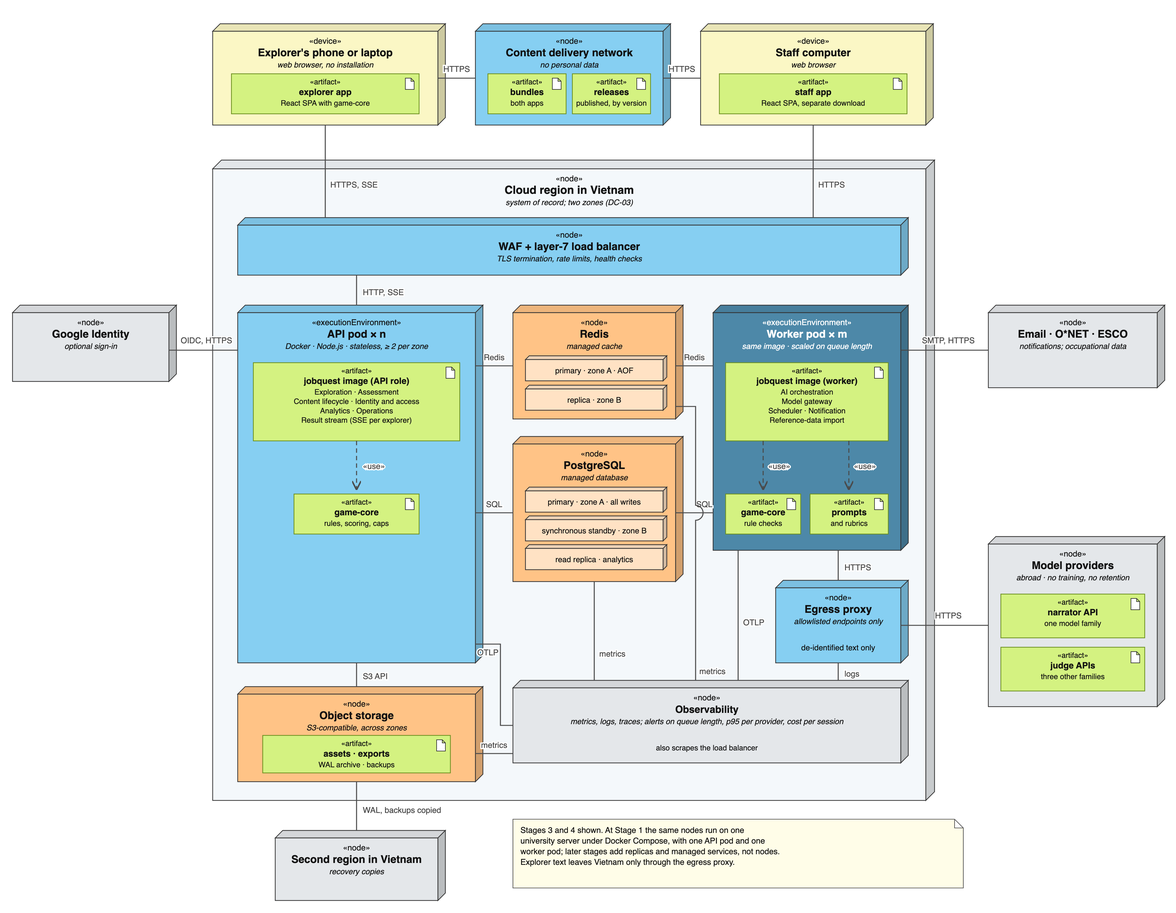
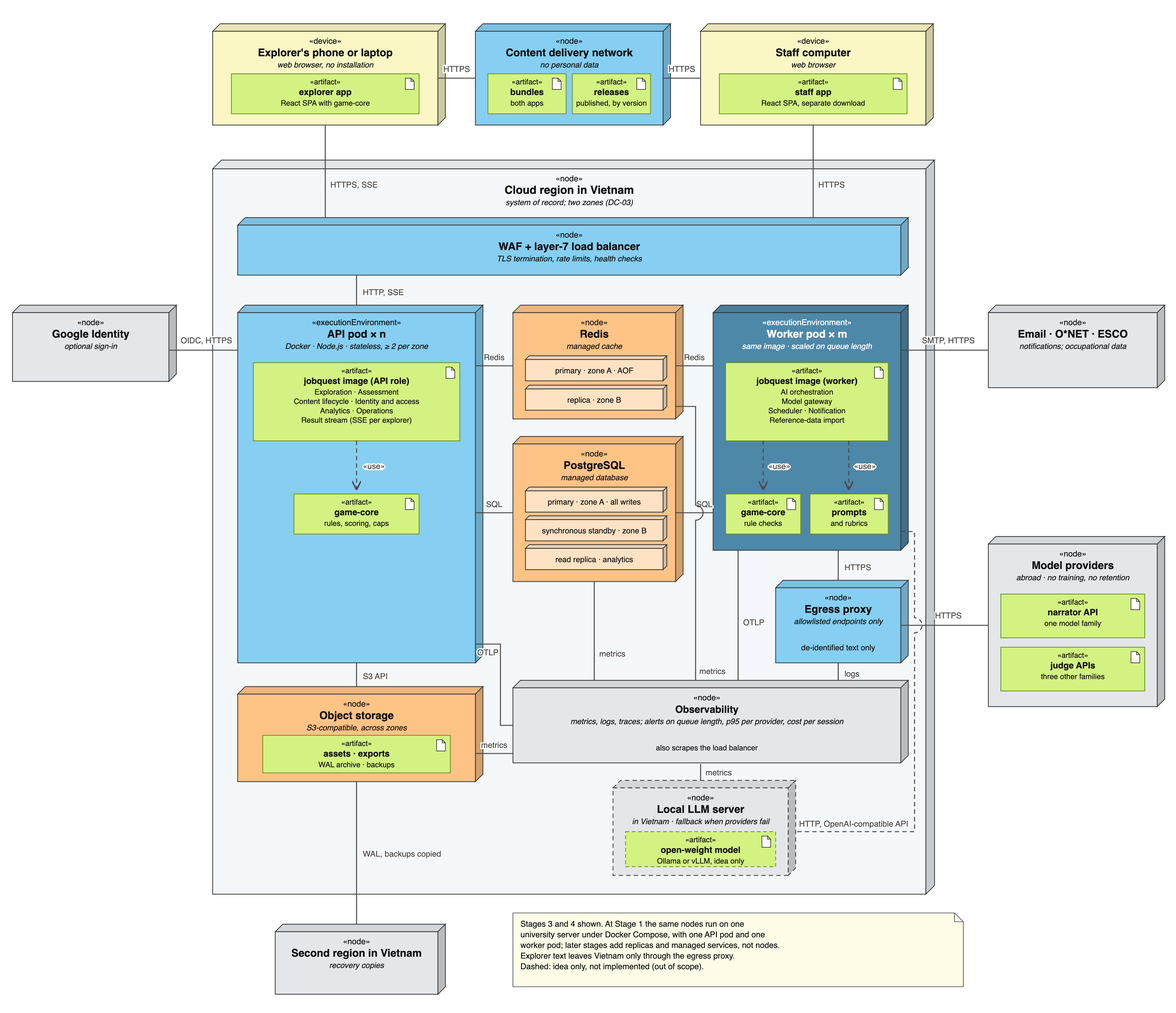
docs(report): vẽ LLM local (ý tưởng, không hiện thực) vào component và deployment diagram
- Theo nhận xét của cô 24/10: LLM local là chế độ fallback khi nhà cung cấp AI gặp sự cố, giữ dữ liệu trong Việt Nam (D-98)
- Hình đặt viền đứt nét, kèm chú giải "idea only, not implemented"; §5.3.1 ghi rõ ngoài phạm vi dự án
- Deployment: thêm node Local LLM server trong vùng cloud Việt Nam, nối từ worker và nối sang observability; sửa nguồn build_deployment.py
- Component: không có file nguồn nên vẽ chồng lên PNG gốc (assets/component)
- Đưa §5.3.6 xuống sau §5.3.3 để md2tex đánh số mục đúng thứ tự

diff --git a/docs/project-hub/assets/component/overlay.html b/docs/project-hub/assets/component/overlay.html
@@ -1,0 +1,19 @@
+<!doctype html><meta charset="utf-8">
+<style>html,body{margin:0;background:#fff}svg{display:block}text{font-family:Inter,-apple-system,"SF Pro Text","Helvetica Neue",Arial,sans-serif}</style>
+<svg xmlns="http://www.w3.org/2000/svg" width="2500" height="2352" viewBox="0 0 2500 2352">
+<image href="base.png" width="2500" height="2352"/>
+<!-- Local LLM: ý tưởng, không hiện thực -->
+<rect x="2020" y="1920" width="418" height="128" rx="8" fill="#FFFAF4" stroke="#C2410C" stroke-width="4" stroke-dasharray="14 9"/>
+<text x="2044" y="1952" font-size="25" font-style="italic" fill="#5B6678">«component»</text>
+<text x="2044" y="1987" font-size="33" font-weight="700" fill="#0F172A">Local LLM</text>
+<text x="2044" y="2014" font-size="25" fill="#334155">OpenAI-compatible API · fallback</text>
+<text x="2044" y="2040" font-size="25" fill="#334155" font-weight="600">idea only, not implemented</text>
+<!-- ghép nối từ Model gateway -->
+<path d="M1560,1898 V1984 H1930" fill="none" stroke="#C2410C" stroke-width="5" stroke-dasharray="14 9"/>
+<path d="M1930,1957 A27,27 0 0 0 1930,2011" fill="none" stroke="#C2410C" stroke-width="5"/>
+<circle cx="1941" cy="1984" r="14" fill="#fff" stroke="#C2410C" stroke-width="5"/>
+<path d="M1955,1984 H2020" stroke="#C2410C" stroke-width="5"/>
+<!-- chú giải -->
+<rect x="1950" y="2280" width="50" height="28" rx="4" fill="#FFFAF4" stroke="#C2410C" stroke-width="3.5" stroke-dasharray="9 6"/>
+<text x="2014" y="2302" font-size="26" fill="#334155">idea only, not built</text>
+</svg>

diff --git a/reports/master/chapters/ch5.tex b/reports/master/chapters/ch5.tex
@@ -1856,12 +1856,12 @@ Serverless functions on the request path & NFR-01 & Cold starts add latency to t
 
 Actors and external environment. Four actors use the system, each through a browser (Section 4.2.1). Explorers --- students and career changers --- play scenarios on phones or laptops. Domain experts author, review, and revalidate the content of an occupation and rate responses blind. Content administrators manage an occupation in the catalogue, assign reviews, design presentation, and publish. System administrators manage accounts, model configuration, cost, failed jobs, and app feedback. Four external services sit outside the system boundary: model providers abroad --- a narrator of one family, judges of three other families, and an image model; Google, as an optional identity provider; an email delivery service; and the occupational data sources O*NET and ESCO, imported periodically.
 
-Component view. The figure below shows the components and the interfaces between them in UML notation: a ball is an interface a component provides, a socket one it requires. The API and Worker subsystems are the same codebase running different processes; they never call each other directly but communicate through the job queue and publish--subscribe channel in Redis.
+Component view. The figure below shows the components and the interfaces between them in UML notation: a ball is an interface a component provides, a socket one it requires. The API and Worker subsystems are the same codebase running different processes; they never call each other directly but communicate through the job queue and publish--subscribe channel in Redis. The dashed component, a local language model server behind the same adapter interface as the providers, is an idea only: it would serve as a fallback inside Vietnam when every provider fails (Section 5.3.6), it is not implemented, and building it is outside the scope of the project.
 
 \begin{figure}[H]
 \centering
 \includegraphics[width=\textwidth,height=0.9\textheight,keepaspectratio]{figures/jobquest_component_diagram.png}
-\caption{Component diagram of JobQuest. Each line joins the component that requires an interface (socket) to the component that provides it (ball)}
+\caption{Component diagram of JobQuest. Each line joins the component that requires an interface (socket) to the component that provides it (ball). Dashed: an idea that is not implemented}
 \end{figure}
 
 Each module is described below with its responsibility and its state in the prototype.
@@ -1900,13 +1900,13 @@ System overview. The figure below shows the whole system as deployed: the two br
 \caption{System overview of JobQuest: components, technologies, and hosting, with the numbered path of one written answer. Blue arrows are the request path; orange arrows the background AI path; the dashed border is the hosting boundary of DC-03}
 \end{figure}
 
-Deployment. The deployment diagram below follows UML notation: devices and nodes are drawn as three-dimensional boxes, the artifacts deployed on them as documents inside, and each communication path is labelled with its protocol; the components of Section 5.3.1 appear inside the artifact that manifests them. Both applications are static bundles, served to browsers by a content delivery network that holds no personal data. Inside one cloud region in Vietnam, a web application firewall and load balancer terminate TLS and spread requests over the API pods of two zones. API and worker pods run the same Docker image, started in two roles; both are stateless, so capacity grows by adding pods: API pods on CPU and open streams, worker pods on queue length. PostgreSQL runs as a primary with a synchronous standby in the other zone and a read replica for analytics; Redis runs as a primary with a replica. The model gateway reaches the providers abroad only through an egress proxy that admits allowlisted endpoints, and backups are copied to a second region in Vietnam. An observability node inside the region receives metrics, logs, and traces from the API and worker pods over OpenTelemetry (OTLP), collects metrics from Redis, PostgreSQL, and object storage and logs from the egress proxy, and scrapes the load balancer, so that queue length, latency per provider, and cost per session are watched in one place. At Stage 1 the same nodes run on one university server under Docker Compose, with one API and one worker.
+Deployment. The deployment diagram below follows UML notation: devices and nodes are drawn as three-dimensional boxes, the artifacts deployed on them as documents inside, and each communication path is labelled with its protocol; the components of Section 5.3.1 appear inside the artifact that manifests them. Both applications are static bundles, served to browsers by a content delivery network that holds no personal data. Inside one cloud region in Vietnam, a web application firewall and load balancer terminate TLS and spread requests over the API pods of two zones. API and worker pods run the same Docker image, started in two roles; both are stateless, so capacity grows by adding pods: API pods on CPU and open streams, worker pods on queue length. PostgreSQL runs as a primary with a synchronous standby in the other zone and a read replica for analytics; Redis runs as a primary with a replica. The model gateway reaches the providers abroad only through an egress proxy that admits allowlisted endpoints, and backups are copied to a second region in Vietnam. An observability node inside the region receives metrics, logs, and traces from the API and worker pods over OpenTelemetry (OTLP), collects metrics from Redis, PostgreSQL, and object storage and logs from the egress proxy, and scrapes the load balancer, so that queue length, latency per provider, and cost per session are watched in one place. At Stage 1 the same nodes run on one university server under Docker Compose, with one API and one worker. The dashed node, a local language model server inside the region, is an idea only: the worker would call it over an OpenAI-compatible API when every provider fails, so that explorer text stays in Vietnam; it is not implemented and is outside the scope of the project.
 
 \begin{landscape}
 \begin{figure}[H]
 \centering
-\includegraphics[width=\linewidth,keepaspectratio]{figures/jobquest_deployment.png}
-\caption{UML deployment diagram of JobQuest at Stages 3 and 4: devices, nodes, and execution environments, the artifacts deployed on each, and the protocol of each communication path}
+\includegraphics[width=\linewidth,height=0.86\textwidth,keepaspectratio,keepaspectratio]{figures/jobquest_deployment.png}
+\caption{UML deployment diagram of JobQuest at Stages 3 and 4: devices, nodes, and execution environments, the artifacts deployed on each, and the protocol of each communication path. Dashed: an idea that is not implemented}
 \end{figure}
 \end{landscape}
 
@@ -2050,29 +2050,6 @@ Reliability and operations. Availability of 99.5\% a month is proposed for Stage
 
 From the prototype to the target. Four prototype mechanisms are kept: rules in a framework-free \textit{game-core} shared by client and server; the server as score authority; content in versioned, immutable releases pinned to each run; and httpOnly cookie sessions with rotating refresh tokens. Six changes reach the target: free-text assessment becomes an asynchronous job whose result enters the run as an event; runs are submitted turn by turn (NFR-03); content is written through the lifecycle module instead of a seed script; three roles become four occupation-scoped actors; the staff application, AI orchestration, gateway, queue, workers, and scheduler are added; and the accessible 2D map is added. Each change extends a prototype component along a boundary it already has; none discards one.
 
-\setcounter{subsubsection}{5}
-
-\subsubsection{AI Model Design}
-
-JobQuest does not design, train, or fine-tune a model (Section 5.2.3). This section designs how existing language models are composed with rules, data, and expert oversight into the AI components of the platform. Only its structure is fixed here: each part is written once its content has been verified, and the parts that depend on the game design stay parameterised until the game design is fixed. The parts fall into four groups: the overview (parts 1 and 2), the components and their data (parts 3 to 6), scoring and model calls (parts 7 to 10), and operation (parts 11 to 15).
-
-\begin{enumerate}[leftmargin=1.5em]
-  \item Design principles: the principles that decide which decisions a model takes and which a rule takes.
-  \item End-to-end flow: one figure of the authoring, play, and review loops, and of the model gateway that every call passes through.
-  \item The AI components: the contract of each of AI-1 to AI-5, namely when it runs, what it receives and returns, how its output is checked, and what happens on failure.
-  \item Feedback writer: how the result of a judgment becomes feedback the explorer can use.
-  \item Other free text: how every other free-text answer in the game reaches the same grader.
-  \item Data contracts: the seed that experts author and the judgment that the graders return, with what is stored and versioned.
-  \item Scoring and aggregation: how the levels given by the judges are combined into a grade and a competency score, with the parameters left open until the game design is fixed.
-  \item Edge cases: invalid output, an empty answer, hints, and a missing judge.
-  \item Model call configuration and prompts: the parameters of each kind of call, their translation to the API of each provider, the system prompt, and prompt caching.
-  \item Run-time rules of AI-4: the checks applied to the narrator's text before the explorer sees it.
-  \item Privacy and safety: de-identification and the defence against prompt injection; the policy on third parties is in Section 5.3.10.
-  \item Failure behaviour: the sequence of fallbacks when a call fails, and the idea of a local model as the last fallback, which is not implemented and is to be shown in the component and deployment diagrams.
-  \item Cost and time: the cost of a playthrough and the time budget of each call.
-  \item Feedback loop and versions: how expert rulings improve the rubrics and the calibration examples, and how versions of models, prompts, and rubrics are tracked.
-  \item Deferred AI functions: the AI functions left for a later phase and where they attach to the design.
-\end{enumerate}
 \subsubsection{Sitemap Design}
 
 The two applications of Section 5.3.1 have one sitemap each. A box is a screen and lists its main elements; a solid arrow is navigation the user chooses, and a dashed arrow, labelled with its condition, is a screen the system leads to after an action.
@@ -2090,7 +2067,7 @@ Staff application. One sign-in screen leads to three portals, one per staff acto
 \begin{landscape}
 \begin{figure}[H]
 \centering
-\includegraphics[width=\linewidth,keepaspectratio]{figures/SITE-02_StaffApp.png}
+\includegraphics[width=\linewidth,height=0.86\textwidth,keepaspectratio,keepaspectratio]{figures/SITE-02_StaffApp.png}
 \caption{Sitemap of the staff application (SITE-02): three portals behind one sign-in, with dashed arrows for the path a scenario takes between them}
 \end{figure}
 \end{landscape}
@@ -2162,6 +2139,30 @@ Import reference data. The uploaded O*NET and ESCO files are stored in object st
 \includegraphics[width=\textwidth,height=0.9\textheight,keepaspectratio]{figures/SD-09_ContentAdmin_ImportReferenceData.png}
 \caption{Sequence of importing reference data (SD-09): upload, matching against O*NET and ESCO, resolution of unmatched records, and adaptation}
 \end{figure}
+
+\setcounter{subsubsection}{5}
+
+\subsubsection{AI Model Design}
+
+JobQuest does not design, train, or fine-tune a model (Section 5.2.3). This section designs how existing language models are composed with rules, data, and expert oversight into the AI components of the platform. Only its structure is fixed here: each part is written once its content has been verified, and the parts that depend on the game design stay parameterised until the game design is fixed. The parts fall into four groups: the overview (parts 1 and 2), the components and their data (parts 3 to 6), scoring and model calls (parts 7 to 10), and operation (parts 11 to 15).
+
+\begin{enumerate}[leftmargin=1.5em]
+  \item Design principles: the principles that decide which decisions a model takes and which a rule takes.
+  \item End-to-end flow: one figure of the authoring, play, and review loops, and of the model gateway that every call passes through.
+  \item The AI components: the contract of each of AI-1 to AI-5, namely when it runs, what it receives and returns, how its output is checked, and what happens on failure.
+  \item Feedback writer: how the result of a judgment becomes feedback the explorer can use.
+  \item Other free text: how every other free-text answer in the game reaches the same grader.
+  \item Data contracts: the seed that experts author and the judgment that the graders return, with what is stored and versioned.
+  \item Scoring and aggregation: how the levels given by the judges are combined into a grade and a competency score, with the parameters left open until the game design is fixed.
+  \item Edge cases: invalid output, an empty answer, hints, and a missing judge.
+  \item Model call configuration and prompts: the parameters of each kind of call, their translation to the API of each provider, the system prompt, and prompt caching.
+  \item Run-time rules of AI-4: the checks applied to the narrator's text before the explorer sees it.
+  \item Privacy and safety: de-identification and the defence against prompt injection; the policy on third parties is in Section 5.3.10.
+  \item Failure behaviour: the sequence of fallbacks when a call fails, and the idea of a local model as the last fallback, which is not implemented and is to be shown in the component and deployment diagrams.
+  \item Cost and time: the cost of a playthrough and the time budget of each call.
+  \item Feedback loop and versions: how expert rulings improve the rubrics and the calibration examples, and how versions of models, prompts, and rubrics are tracked.
+  \item Deferred AI functions: the AI functions left for a later phase and where they attach to the design.
+\end{enumerate}
 
 \setcounter{subsubsection}{9}
 

diff --git a/docs/project-hub/assets/deployment/build_deployment.py b/docs/project-hub/assets/deployment/build_deployment.py
@@ -9,7 +9,7 @@ chữ nhật xanh lá có biểu tượng tài liệu, đường nối ghi giao 
 from pathlib import Path
 from xml.sax.saxutils import escape
 
-W, H = 1880, 1460
+W, H = 1880, 1620
 D = 12  # độ sâu mặt 3D
 
 C = {
@@ -42,13 +42,14 @@ def text(x, y, s, size=14, weight="normal", anchor="start", color=None, italic=F
     )
 
 
-def node(x, y, w, h, fill, stereo, name, sub=None, light_text=False, depth=D, name_size=17):
+def node(x, y, w, h, fill, stereo, name, sub=None, light_text=False, depth=D, name_size=17, dashed=False):
     """Hộp 3D kiểu UML: mặt trước, mặt trên, mặt phải."""
+    dash = ' stroke-dasharray="7 5"' if dashed else ""
     top = f"{x},{y} {x + depth},{y - depth} {x + w + depth},{y - depth} {x + w},{y}"
     right = f"{x + w},{y} {x + w + depth},{y - depth} {x + w + depth},{y + h - depth} {x + w},{y + h}"
-    out.append(f'<polygon points="{top}" fill="{shade(fill, 0.93)}" stroke="#333" stroke-width="1.2"/>')
-    out.append(f'<polygon points="{right}" fill="{shade(fill, 0.82)}" stroke="#333" stroke-width="1.2"/>')
-    out.append(f'<rect x="{x}" y="{y}" width="{w}" height="{h}" fill="{fill}" stroke="#333" stroke-width="1.2"/>')
+    out.append(f'<polygon points="{top}" fill="{shade(fill, 0.93)}" stroke="#333" stroke-width="1.2"{dash}/>')
+    out.append(f'<polygon points="{right}" fill="{shade(fill, 0.82)}" stroke="#333" stroke-width="1.2"{dash}/>')
+    out.append(f'<rect x="{x}" y="{y}" width="{w}" height="{h}" fill="{fill}" stroke="#333" stroke-width="1.2"{dash}/>')
     if not name:  # node lồng nhỏ: chữ do nơi gọi tự viết
         return
     col = "#ffffff" if light_text else C["text"]
@@ -59,10 +60,10 @@ def node(x, y, w, h, fill, stereo, name, sub=None, light_text=False, depth=D, na
         text(cx, y + 58, sub, 12.5, anchor="middle", color=col, italic=True)
 
 
-def artifact(x, y, w, h, name, sub=None):
+def artifact(x, y, w, h, name, sub=None, dashed=False):
     out.append(
         f'<rect x="{x}" y="{y}" width="{w}" height="{h}" fill="{C["artifact"]}" '
-        f'stroke="{C["artifact_line"]}" stroke-width="1.2"/>'
+        f'stroke="{C["artifact_line"]}" stroke-width="1.2"{' stroke-dasharray="6 4"' if dashed else ""}/>'
     )
     # biểu tượng tài liệu góc gấp
     ix, iy = x + w - 22, y + 7
@@ -116,7 +117,7 @@ line([(700, 125), (760, 125)], "HTTPS", (730, 115))
 line([(1120, 125), (1060, 125)], "HTTPS", (1090, 115))
 
 # ── Vùng cloud tại Việt Nam (node lồng các node) ─────────────────────
-node(340, 270, 1140, 1010, C["region"], "node", "Cloud region in Vietnam", "system of record; two zones (DC-03)", depth=14, name_size=18)
+node(340, 270, 1140, 1160, C["region"], "node", "Cloud region in Vietnam", "system of record; two zones (DC-03)", depth=14, name_size=18)
 
 node(380, 360, 1060, 80, C["blue"], "node", "WAF + layer-7 load balancer", "TLS termination, rate limits, health checks")
 line([(520, 200), (520, 348)], "HTTPS, SSE", (528, 300), anchor="start")
@@ -181,6 +182,14 @@ line([(1340, 1060), (1340, 1088)], "logs", (1350, 1082), anchor="start")
 line([(760, 1030), (800, 1030), (800, 1160), (820, 1160)], "OTLP", (780, 1048))
 line([(760, 1205), (820, 1205)], "metrics", (790, 1196))
 
+# ── Ý tưởng: LLM local làm fallback khi nhà cung cấp lỗi (D-98; không hiện thực, ngoài phạm vi) ──
+node(980, 1260, 280, 140, C["ext"], "node", "Local LLM server", "in Vietnam · fallback when providers fail", dashed=True)
+artifact(1000, 1330, 240, 56, "open-weight model", "Ollama or vLLM, idea only", dashed=True)
+# worker → LLM local: đi dọc mép phải vùng, nhảy qua đường egress → nhà cung cấp
+out.append('<path d="M1440,850 H1462 V988 A12,12 0 0 1 1462,1012 V1330 H1272" fill="none" stroke="#4a4a4a" stroke-width="1.6" stroke-dasharray="7 5"/>')
+out.append('<text x="1452" y="1322" font-size="13" text-anchor="end" fill="#4a4a4a" paint-order="stroke" stroke="#ffffff" stroke-width="4">HTTP, OpenAI-compatible API</text>')
+line([(1120, 1248), (1120, 1222)], "metrics", (1128, 1240), anchor="start")
+
 # ── Cột trái: Google ──────────────────────────────────────────────────
 node(20, 500, 250, 110, C["ext"], "node", "Google Identity", "optional sign-in")
 line([(380, 560), (270, 560)], "OIDC, HTTPS", (330, 549))
@@ -195,14 +204,15 @@ node(1580, 500, 270, 120, C["ext"], "node", "Email · O*NET · ESCO", "notificat
 line([(1440, 560), (1580, 560)], "SMTP, HTTPS", (1516, 549))
 
 # ── Dưới: vùng dự phòng và ghi chú Stage 1 ────────────────────────────
-node(440, 1340, 260, 100, C["ext"], "node", "Second region in Vietnam", "recovery copies")
-line([(570, 1250), (570, 1328)], "WAL, backups copied", (580, 1300), anchor="start")
+node(440, 1490, 260, 100, C["ext"], "node", "Second region in Vietnam", "recovery copies")
+line([(570, 1250), (570, 1478)], "WAL, backups copied", (580, 1370), anchor="start")
 
-note(820, 1310, 720, 110, [
+note(820, 1460, 720, 118, [
     "Stages 3 and 4 shown. At Stage 1 the same nodes run on one",
     "university server under Docker Compose, with one API pod and one",
     "worker pod; later stages add replicas and managed services, not nodes.",
     "Explorer text leaves Vietnam only through the egress proxy.",
+    "Dashed: idea only, not implemented (out of scope).",
 ])
 
 svg = (

diff --git a/reports/master/report.md b/reports/master/report.md
@@ -2196,9 +2196,9 @@ Architectural style. The drivers call for a design in which nothing slow or fall
 
 Actors and external environment. Four actors use the system, each through a browser (Section 4.2.1). Explorers — students and career changers — play scenarios on phones or laptops. Domain experts author, review, and revalidate the content of an occupation and rate responses blind. Content administrators manage an occupation in the catalogue, assign reviews, design presentation, and publish. System administrators manage accounts, model configuration, cost, failed jobs, and app feedback. Four external services sit outside the system boundary: model providers abroad — a narrator of one family, judges of three other families, and an image model; Google, as an optional identity provider; an email delivery service; and the occupational data sources O\*NET and ESCO, imported periodically.
 
-Component view. The figure below shows the components and the interfaces between them in UML notation: a ball is an interface a component provides, a socket one it requires. The API and Worker subsystems are the same codebase running different processes; they never call each other directly but communicate through the job queue and publish–subscribe channel in Redis.
+Component view. The figure below shows the components and the interfaces between them in UML notation: a ball is an interface a component provides, a socket one it requires. The API and Worker subsystems are the same codebase running different processes; they never call each other directly but communicate through the job queue and publish–subscribe channel in Redis. The dashed component, a local language model server behind the same adapter interface as the providers, is an idea only: it would serve as a fallback inside Vietnam when every provider fails (Section 5.3.6), it is not implemented, and building it is outside the scope of the project.
 
-![Component diagram of JobQuest. Each line joins the component that requires an interface (socket) to the component that provides it (ball).](latex/figures/jobquest_component_diagram.png)
+![Component diagram of JobQuest. Each line joins the component that requires an interface (socket) to the component that provides it (ball). Dashed: an idea that is not implemented.](latex/figures/jobquest_component_diagram.png)
 
 Each module is described below with its responsibility and its state in the prototype.
 
@@ -2232,9 +2232,9 @@ System overview. The figure below shows the whole system as deployed: the two br
 
 ![System overview of JobQuest: components, technologies, and hosting, with the numbered path of one written answer. Blue arrows are the request path; orange arrows the background AI path; the dashed border is the hosting boundary of DC-03.](latex/figures/jobquest_arch_overview.png)
 
-Deployment. The deployment diagram below follows UML notation: devices and nodes are drawn as three-dimensional boxes, the artifacts deployed on them as documents inside, and each communication path is labelled with its protocol; the components of Section 5.3.1 appear inside the artifact that manifests them. Both applications are static bundles, served to browsers by a content delivery network that holds no personal data. Inside one cloud region in Vietnam, a web application firewall and load balancer terminate TLS and spread requests over the API pods of two zones. API and worker pods run the same Docker image, started in two roles; both are stateless, so capacity grows by adding pods: API pods on CPU and open streams, worker pods on queue length. PostgreSQL runs as a primary with a synchronous standby in the other zone and a read replica for analytics; Redis runs as a primary with a replica. The model gateway reaches the providers abroad only through an egress proxy that admits allowlisted endpoints, and backups are copied to a second region in Vietnam. An observability node inside the region receives metrics, logs, and traces from the API and worker pods over OpenTelemetry (OTLP), collects metrics from Redis, PostgreSQL, and object storage and logs from the egress proxy, and scrapes the load balancer, so that queue length, latency per provider, and cost per session are watched in one place. At Stage 1 the same nodes run on one university server under Docker Compose, with one API and one worker.
+Deployment. The deployment diagram below follows UML notation: devices and nodes are drawn as three-dimensional boxes, the artifacts deployed on them as documents inside, and each communication path is labelled with its protocol; the components of Section 5.3.1 appear inside the artifact that manifests them. Both applications are static bundles, served to browsers by a content delivery network that holds no personal data. Inside one cloud region in Vietnam, a web application firewall and load balancer terminate TLS and spread requests over the API pods of two zones. API and worker pods run the same Docker image, started in two roles; both are stateless, so capacity grows by adding pods: API pods on CPU and open streams, worker pods on queue length. PostgreSQL runs as a primary with a synchronous standby in the other zone and a read replica for analytics; Redis runs as a primary with a replica. The model gateway reaches the providers abroad only through an egress proxy that admits allowlisted endpoints, and backups are copied to a second region in Vietnam. An observability node inside the region receives metrics, logs, and traces from the API and worker pods over OpenTelemetry (OTLP), collects metrics from Redis, PostgreSQL, and object storage and logs from the egress proxy, and scrapes the load balancer, so that queue length, latency per provider, and cost per session are watched in one place. At Stage 1 the same nodes run on one university server under Docker Compose, with one API and one worker. The dashed node, a local language model server inside the region, is an idea only: the worker would call it over an OpenAI-compatible API when every provider fails, so that explorer text stays in Vietnam; it is not implemented and is outside the scope of the project.
 
-![UML deployment diagram of JobQuest at Stages 3 and 4: devices, nodes, and execution environments, the artifacts deployed on each, and the protocol of each communication path.](latex/figures/jobquest_deployment.png){landscape}
+![UML deployment diagram of JobQuest at Stages 3 and 4: devices, nodes, and execution environments, the artifacts deployed on each, and the protocol of each communication path. Dashed: an idea that is not implemented.](latex/figures/jobquest_deployment.png){landscape}
 
 The assessed turn. A free-text answer in Perform scenario tests the architecture hardest, because it involves the explorer, the authority over scores, the models, and the failure of any of them. The answer is graded first, by the three judges (AI-5); only then does the narrator decide whether to ask a follow-up (AI-4), and each follow-up answer goes through the same loop. The figure below shows the sequence for one activity.
 
@@ -2338,25 +2338,6 @@ Reliability and operations. Availability of 99.5% a month is proposed for Stages
 
 From the prototype to the target. Four prototype mechanisms are kept: rules in a framework-free *game-core* shared by client and server; the server as score authority; content in versioned, immutable releases pinned to each run; and httpOnly cookie sessions with rotating refresh tokens. Six changes reach the target: free-text assessment becomes an asynchronous job whose result enters the run as an event; runs are submitted turn by turn (NFR-03); content is written through the lifecycle module instead of a seed script; three roles become four occupation-scoped actors; the staff application, AI orchestration, gateway, queue, workers, and scheduler are added; and the accessible 2D map is added. Each change extends a prototype component along a boundary it already has; none discards one.
 
-### 5.3.6 AI Model Design
-
-JobQuest does not design, train, or fine-tune a model (Section 5.2.3). This section designs how existing language models are composed with rules, data, and expert oversight into the AI components of the platform. Only its structure is fixed here: each part is written once its content has been verified, and the parts that depend on the game design stay parameterised until the game design is fixed. The parts fall into four groups: the overview (parts 1 and 2), the components and their data (parts 3 to 6), scoring and model calls (parts 7 to 10), and operation (parts 11 to 15).
-
-1. Design principles: the principles that decide which decisions a model takes and which a rule takes.
-2. End-to-end flow: one figure of the authoring, play, and review loops, and of the model gateway that every call passes through.
-3. The AI components: the contract of each of AI-1 to AI-5, namely when it runs, what it receives and returns, how its output is checked, and what happens on failure.
-4. Feedback writer: how the result of a judgment becomes feedback the explorer can use.
-5. Other free text: how every other free-text answer in the game reaches the same grader.
-6. Data contracts: the seed that experts author and the judgment that the graders return, with what is stored and versioned.
-7. Scoring and aggregation: how the levels given by the judges are combined into a grade and a competency score, with the parameters left open until the game design is fixed.
-8. Edge cases: invalid output, an empty answer, hints, and a missing judge.
-9. Model call configuration and prompts: the parameters of each kind of call, their translation to the API of each provider, the system prompt, and prompt caching.
-10. Run-time rules of AI-4: the checks applied to the narrator's text before the explorer sees it.
-11. Privacy and safety: de-identification and the defence against prompt injection; the policy on third parties is in Section 5.3.10.
-12. Failure behaviour: the sequence of fallbacks when a call fails, and the idea of a local model as the last fallback, which is not implemented and is to be shown in the component and deployment diagrams.
-13. Cost and time: the cost of a playthrough and the time budget of each call.
-14. Feedback loop and versions: how expert rulings improve the rubrics and the calibration examples, and how versions of models, prompts, and rubrics are tracked.
-15. Deferred AI functions: the AI functions left for a later phase and where they attach to the design.
 ### 5.3.2 Sitemap Design
 
 The two applications of Section 5.3.1 have one sitemap each. A box is a screen and lists its main elements; a solid arrow is navigation the user chooses, and a dashed arrow, labelled with its condition, is a screen the system leads to after an action.
@@ -2405,6 +2386,25 @@ Import reference data. The uploaded O\*NET and ESCO files are stored in object s
 
 ![Sequence of importing reference data (SD-09): upload, matching against O\*NET and ESCO, resolution of unmatched records, and adaptation.](latex/figures/SD-09_ContentAdmin_ImportReferenceData.png)
 
+### 5.3.6 AI Model Design
+
+JobQuest does not design, train, or fine-tune a model (Section 5.2.3). This section designs how existing language models are composed with rules, data, and expert oversight into the AI components of the platform. Only its structure is fixed here: each part is written once its content has been verified, and the parts that depend on the game design stay parameterised until the game design is fixed. The parts fall into four groups: the overview (parts 1 and 2), the components and their data (parts 3 to 6), scoring and model calls (parts 7 to 10), and operation (parts 11 to 15).
+
+1. Design principles: the principles that decide which decisions a model takes and which a rule takes.
+2. End-to-end flow: one figure of the authoring, play, and review loops, and of the model gateway that every call passes through.
+3. The AI components: the contract of each of AI-1 to AI-5, namely when it runs, what it receives and returns, how its output is checked, and what happens on failure.
+4. Feedback writer: how the result of a judgment becomes feedback the explorer can use.
+5. Other free text: how every other free-text answer in the game reaches the same grader.
+6. Data contracts: the seed that experts author and the judgment that the graders return, with what is stored and versioned.
+7. Scoring and aggregation: how the levels given by the judges are combined into a grade and a competency score, with the parameters left open until the game design is fixed.
+8. Edge cases: invalid output, an empty answer, hints, and a missing judge.
+9. Model call configuration and prompts: the parameters of each kind of call, their translation to the API of each provider, the system prompt, and prompt caching.
+10. Run-time rules of AI-4: the checks applied to the narrator's text before the explorer sees it.
+11. Privacy and safety: de-identification and the defence against prompt injection; the policy on third parties is in Section 5.3.10.
+12. Failure behaviour: the sequence of fallbacks when a call fails, and the idea of a local model as the last fallback, which is not implemented and is to be shown in the component and deployment diagrams.
+13. Cost and time: the cost of a playthrough and the time budget of each call.
+14. Feedback loop and versions: how expert rulings improve the rubrics and the calibration examples, and how versions of models, prompts, and rubrics are tracked.
+15. Deferred AI functions: the AI functions left for a later phase and where they attach to the design.
 ### 5.3.10 Policies for the Processing of the Proposed System and Third Parties
 
 This section sets the rules under which JobQuest processes personal data and shares any data with third parties, completing the policies of Section 4.1.4. Its central problem is a conflict between two parts of the design. The system of record must be in Vietnam (DC-03), as Vietnam's Law on Personal Data Protection and its implementing decree require [99][100]; but scoring and narration depend on language models whose providers all process requests outside Vietnam. Under the law, using a platform abroad to process data collected in Vietnam is a transfer of personal data abroad, whichever region the provider is asked to use. The policies below decide what may cross that border, under what conditions, and what the platform owes its users when it does.

diff --git a/docs/project-hub/assets/component/README.md b/docs/project-hub/assets/component/README.md
@@ -1,0 +1,23 @@
+# Component diagram (báo cáo §5.3.1)
+
+Hình component gốc không có file nguồn trong repo (chỉ có PNG), nên phần **Local LLM** được vẽ chồng lên PNG gốc.
+
+| File | Là gì |
+|---|---|
+| `base.png` | Hình component gốc, chưa có Local LLM |
+| `overlay.html` | Ảnh gốc cộng hộp «component» **Local LLM** (viền đứt nét, ý tưởng, không hiện thực), đường nối từ Model gateway và dòng chú giải |
+| `jobquest_component_diagram.png` | Kết quả, chép sang `reports/master/figures/` |
+
+Local LLM là chế độ dự phòng khi mọi nhà cung cấp AI gặp sự cố; giữ dữ liệu trong Việt Nam. Ngoài phạm vi ĐACN và ĐATN: chỉ vẽ để ghi ý tưởng (D-98).
+
+## Dựng lại (macOS, Google Chrome)
+
+```sh
+cd docs/project-hub/assets/component
+"/Applications/Google Chrome.app/Contents/MacOS/Google Chrome" --headless=new --disable-gpu \
+  --hide-scrollbars --window-size=2500,2352 --allow-file-access-from-files \
+  --screenshot="$PWD/jobquest_component_diagram.png" "file://$PWD/overlay.html"
+cp jobquest_component_diagram.png ../../../../reports/master/figures/
+```
+
+Có file nguồn editable (draw.io hoặc công cụ khác) thì thêm hộp Local LLM trực tiếp vào đó và bỏ thư mục này.

diff --git a/docs/project-hub/assets/deployment/README.md b/docs/project-hub/assets/deployment/README.md
@@ -20,7 +20,7 @@ Nội dung khớp đoạn "Deployment" trong `reports/master/report.md`.
 cd docs/project-hub/assets/deployment
 python3 build_deployment.py
 "/Applications/Google Chrome.app/Contents/MacOS/Google Chrome" --headless=new --disable-gpu \
-  --hide-scrollbars --force-device-scale-factor=2 --window-size=1880,1460 \
+  --hide-scrollbars --force-device-scale-factor=2 --window-size=1880,1620 \
   --screenshot="$PWD/jobquest_deployment.png" "file://$PWD/jobquest_deployment.svg"
 cp jobquest_deployment.png ../../../../reports/master/figures/
 ```
